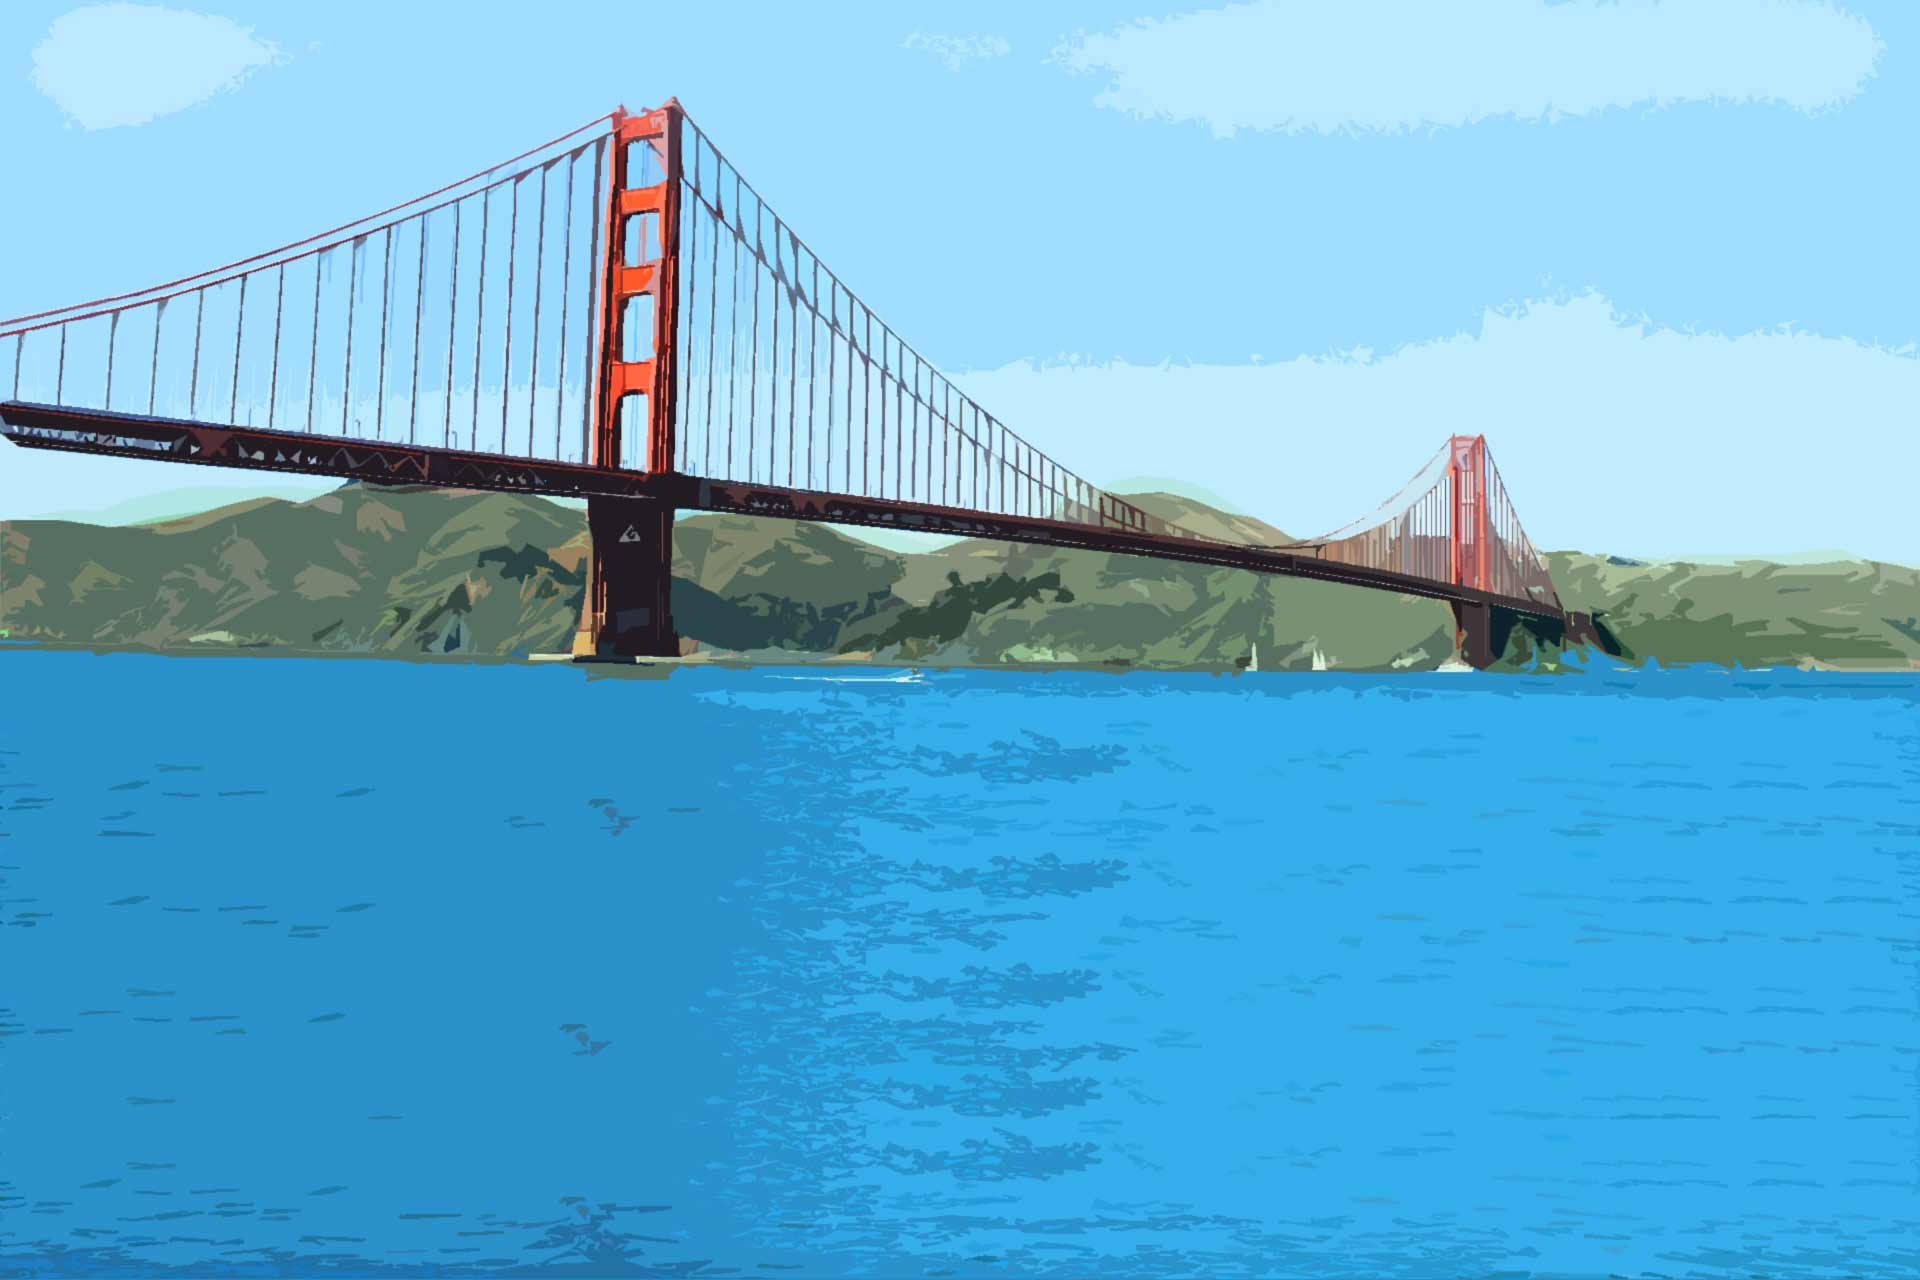
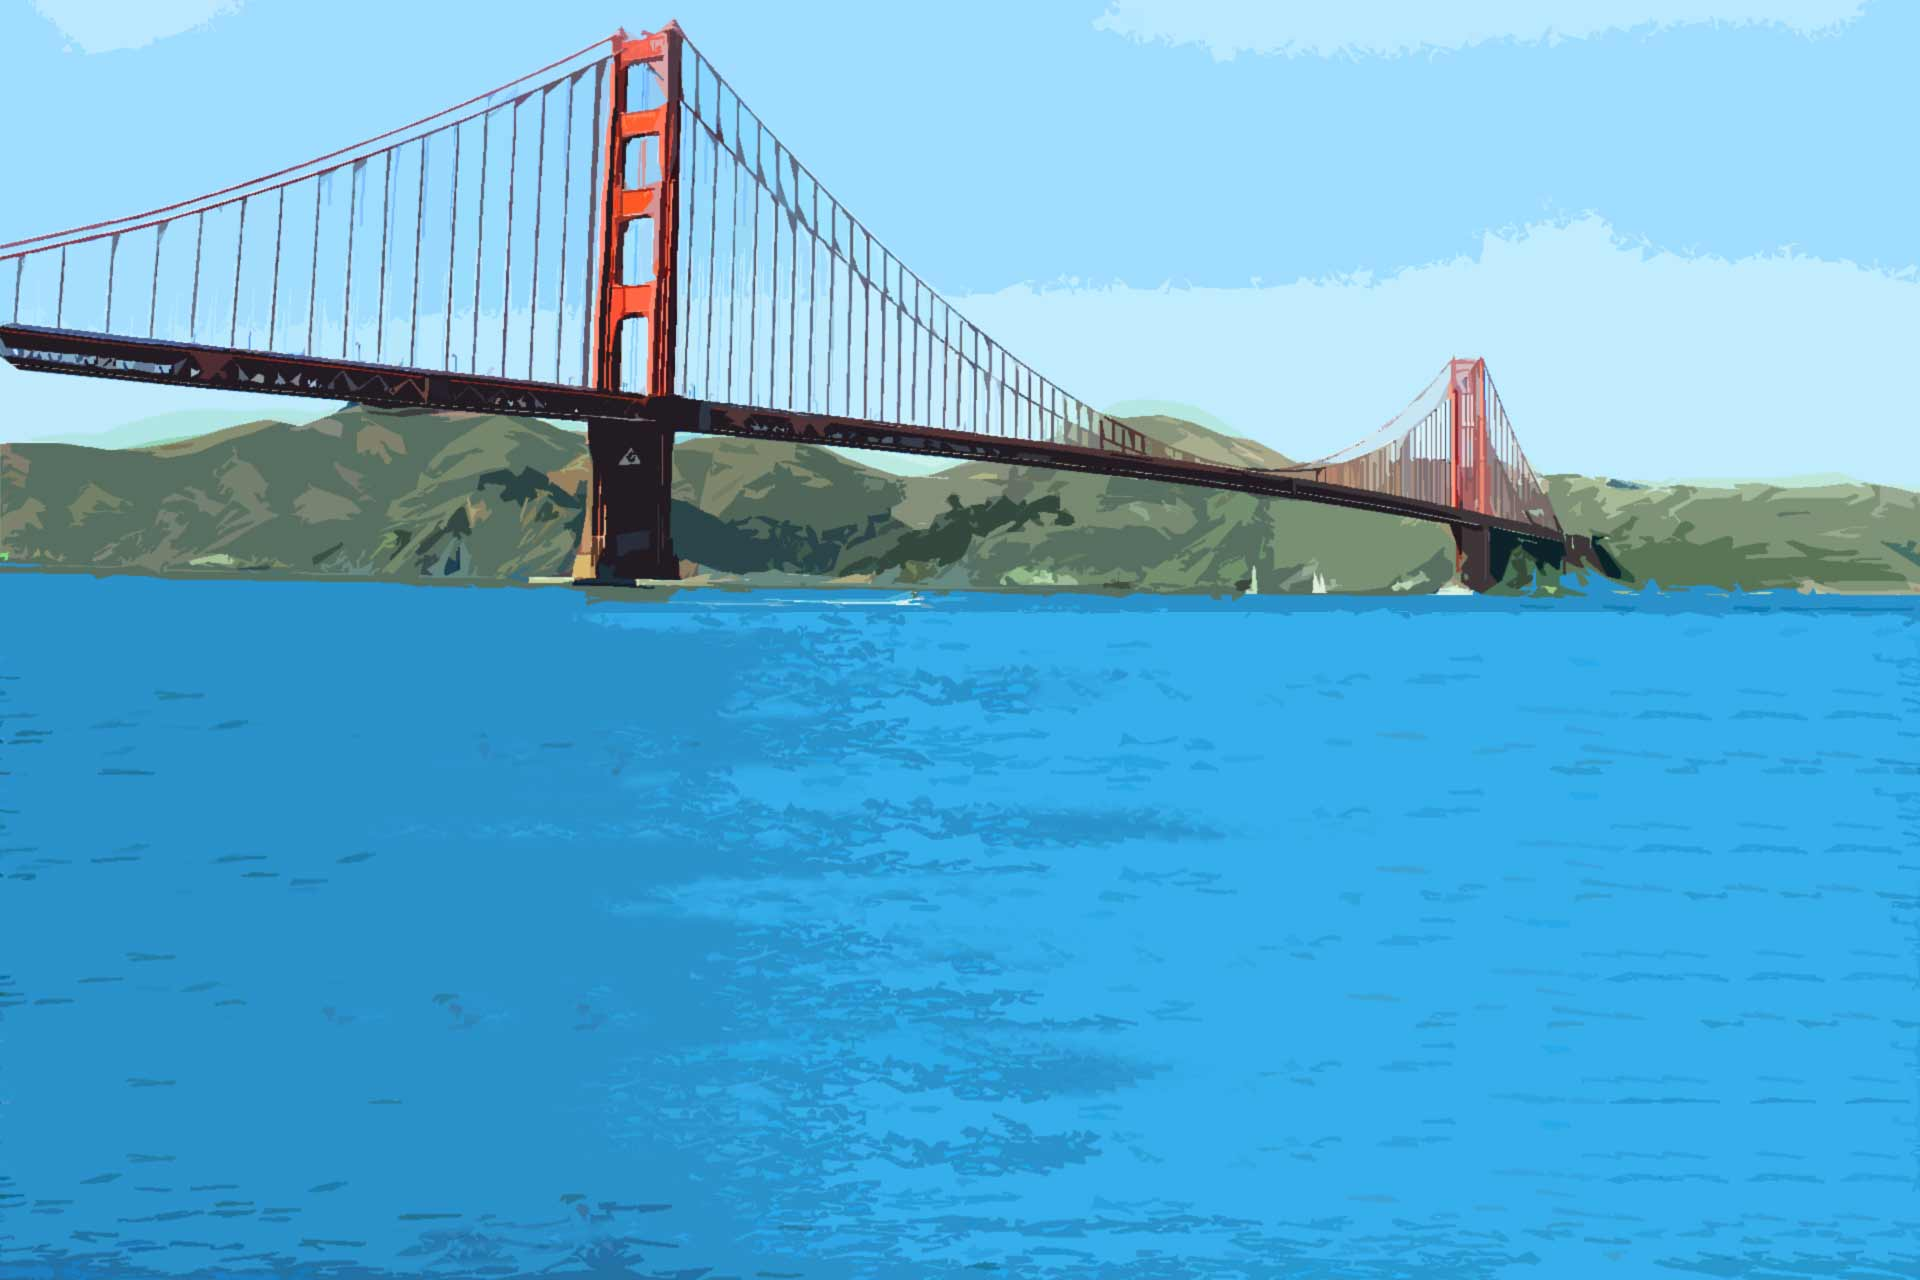
update back image

diff --git a/sites/all/themes/civiconsf2013/css/global.css b/sites/all/themes/civiconsf2013/css/global.css
@@ -407,7 +407,7 @@ p.tweet
 /*body background image*/
 .front
 {
-	background-image:url(../images/untitle1.jpg);
+	background-image:url(../images/front-back.jpg);
 	background-repeat:no-repeat;
 	background-position:center top;
 	background-attachment:fixed;
@@ -415,7 +415,7 @@ p.tweet
 
 .not-front
 {
-	background-image:url(../images/untitle2.jpg);
+	background-image:url(../images/other-back.jpg);
 	background-repeat:no-repeat;
 	background-position:center top;
 	background-attachment:fixed;
